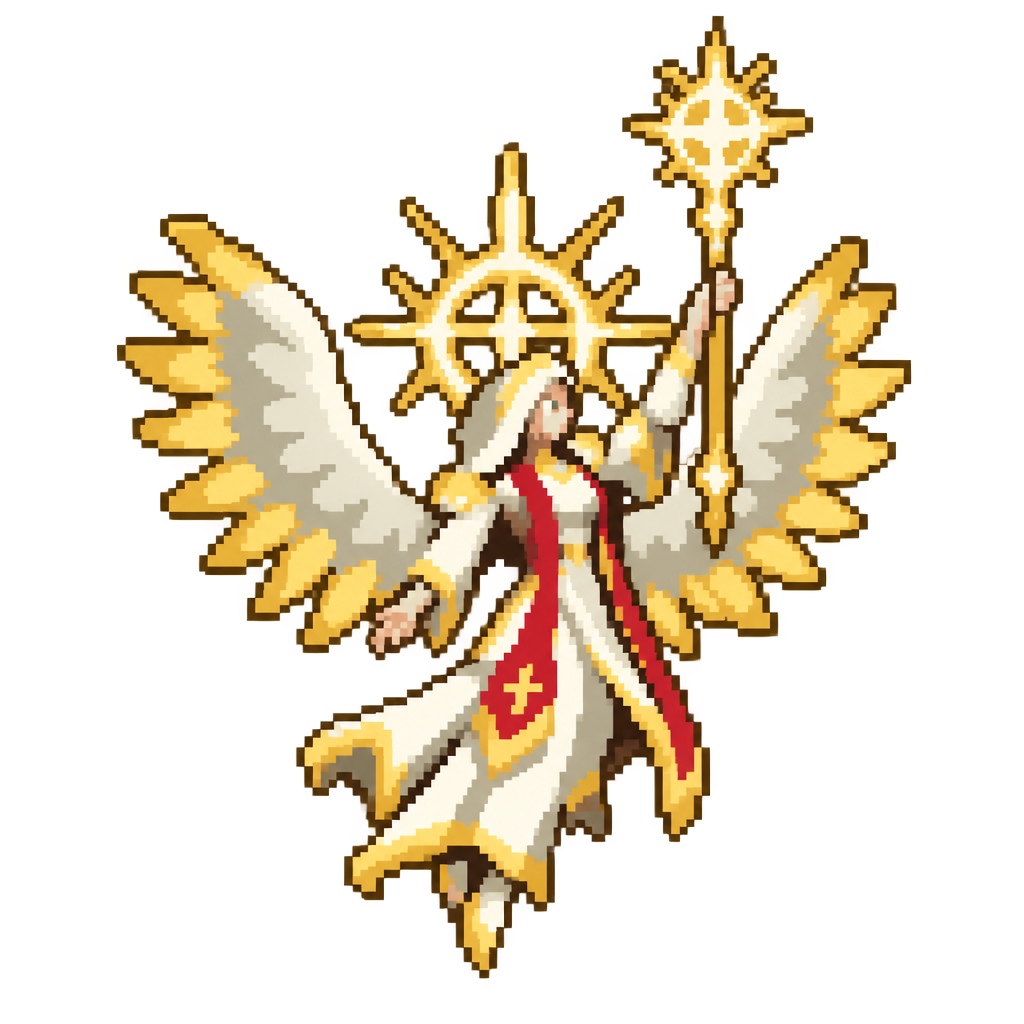
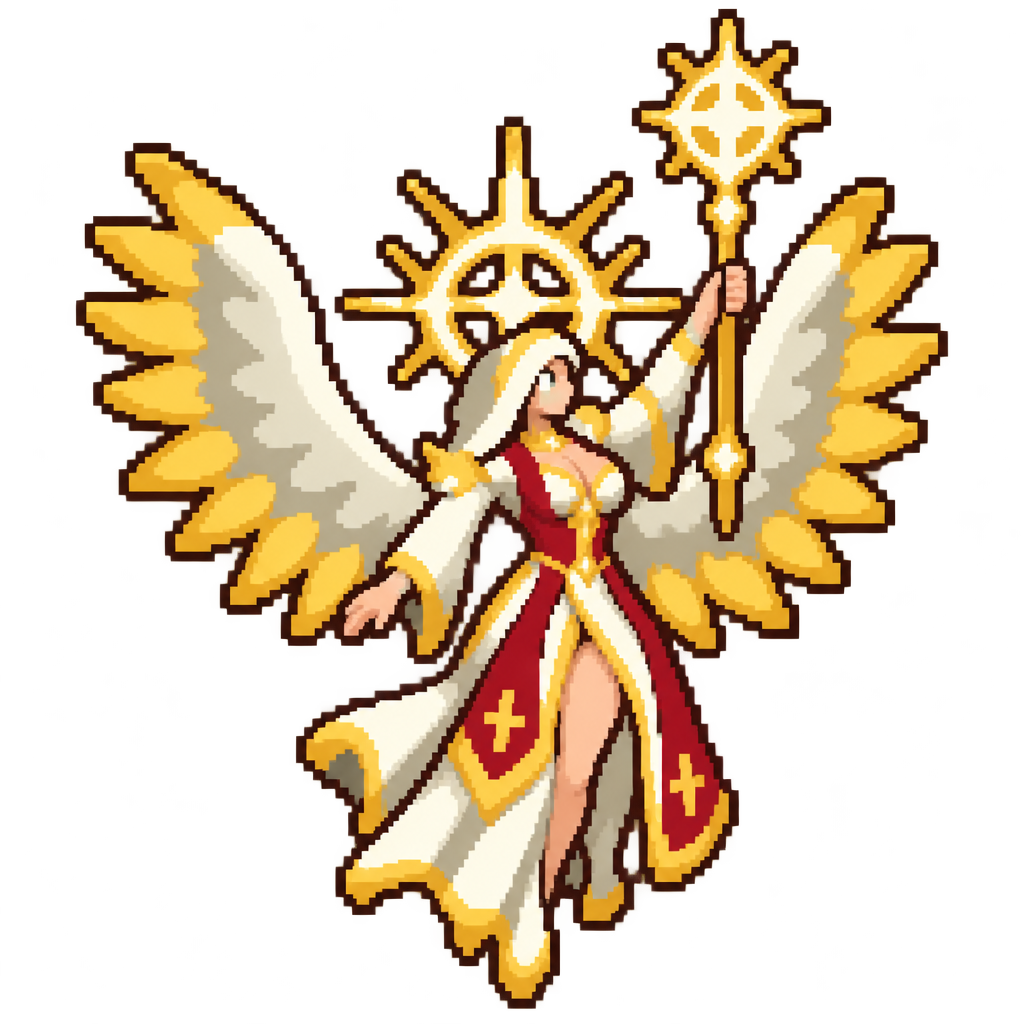
Art: curvier Wither Witch, Soulbinder and Seraphine with a walk-cycle bust bounce (draft for owner review)
Claude-Session: https://claude.ai/code/session_01FLPv2RqRe5qVsRWxUhur7z

diff --git a/tools/walk_cycle.py b/tools/walk_cycle.py
@@ -83,6 +83,11 @@ DIP = (0, 1, 0, 0)
 # Per frame (both steps): hem shift at the hem bottom as a share of a robe rig's
 # `sway` (+ = forward, the facing side): the hem swings forward on each step.
 ROBE_SWAY = (0.0, 0.5, 1.0, 0.5, 0.0, -0.5, -1.0, -0.5)
+# Per frame (both steps): the bust box's vertical offset from the body, as a share of a
+# rig's `bust` bounce px (+ = down). Secondary motion (owner request, Oct 2026: "jiggle"):
+# the bust lags the body by one pose, so it stays up while the body dips ("down") and
+# overshoots down as the body rises ("passing"), then settles; frame 0 (the still) is 0.
+BUST_BOUNCE = (0.0, -1.0, 1.0, 0.0, 0.0, -1.0, 1.0, 0.0)
 
 # Rigs: how each still is cut. Columns and rows are art px in the still (x from
 # the left, y from the top; ranges are [start, end) ). Keys:
@@ -97,6 +102,9 @@ ROBE_SWAY = (0.0, 0.5, 1.0, 0.5, 0.0, -0.5, -1.0, -0.5)
 #   lift    px the swinging foot rises at passing ("legs").
 #   sway    px the hem bottom swings at most ("robe").
 #   dip     px the body dips on the "down" pose (0 or 1; 1 for every unit so far).
+#   bust    optional (x0, x1, y0, y1, px): the box of the still holding the bust (art px,
+#           [start, end) ) and the bounce in whole px; it moves BUST_BOUNCE * px rows
+#           relative to the body each frame (rows only, so every pixel stays an approved one).
 RIGS = {
     # The pilot (ART_BIBLE "Walk cycles"): the three units with the most screen time.
     "player/necromancer": dict(mode="legs", hip=47, back=(0, 20), front=(20, 33), rigid=[(33, 46, 0, None)], spread=1, lift=1, dip=1),
@@ -127,8 +135,9 @@ RIGS = {
     "player/plague_scholar": dict(mode="legs", hip=43, back=(0, 26), front=(26, 60), rigid=[], spread=2, lift=1, dip=1),
     "player/doomsayer": dict(mode="legs", hip=47, back=(0, 17), front=(17, 32), rigid=[], spread=1, lift=1, dip=1),
     "player/barrow_warden": dict(mode="legs", hip=52, back=(0, 18), front=(18, 30), rigid=[(30, 44, 0, None)], spread=1, lift=1, dip=1),
-    "player/soulbinder": dict(mode="legs", hip=54, back=(0, 24), front=(24, 46), rigid=[], spread=1, lift=1, dip=1),
-    "player/wither_witch": dict(mode="legs", hip=42, back=(0, 20), front=(20, 26), rigid=[(26, 40, 0, None)], spread=1, lift=1, dip=1),
+    # Redesigned figures (owner request, Oct 2026): the bust box bounces 1 px (BUST_BOUNCE).
+    "player/soulbinder": dict(mode="legs", hip=54, back=(0, 24), front=(24, 44), rigid=[], spread=1, lift=1, dip=1, bust=(20, 33, 20, 26, 1)),
+    "player/wither_witch": dict(mode="legs", hip=40, back=(0, 18), front=(18, 26), rigid=[(26, 36, 0, None)], spread=1, lift=1, dip=1, bust=(14, 27, 15, 21, 1)),
     "player/grave_herald": dict(mode="legs", hip=53, back=(0, 24), front=(24, 46), rigid=[], spread=1, lift=1, dip=1),
     # Later units with long screen time: the walking summon evolutions and two March soldiers.
     "summons/death_knight": dict(mode="legs", hip=41, back=(0, 25), front=(25, 54), rigid=[], spread=2, lift=2, dip=1),
@@ -193,6 +202,9 @@ def skin_rig(skin: str, base: str) -> dict:
         rig["back"], rig["front"] = cols(rig["back"]), cols(rig["front"])
     rig["rigid"] = [(*cols((x0, x1)), y0 if y0 == 0 else y0 + dy, None if y1 is None else y1 + dy)
                     for x0, x1, y0, y1 in rig.get("rigid", [])]
+    if "bust" in rig:
+        bx0, bx1, by0, by1, bpx = rig["bust"]
+        rig["bust"] = (*cols((bx0, bx1)), by0 + dy, by1 + dy, bpx)
     rig.update(SKIN_FIX.get(skin, {}))
     return rig
 
@@ -300,9 +312,27 @@ def frames_of(key: str) -> list:
         else:
             hem = _shift_rows(parts["hem"], hip, dy, 0, ROBE_SWAY[f] * rig["sway"])
             frame = _stack([hem] + body)
+        if "bust" in rig:
+            frame = _bounce(frame, rig["bust"], dy, int(round(BUST_BOUNCE[f] * rig["bust"][4])))
         out.append(frame)
     if not np.array_equal(out[0], still):
         sys.exit(f"{key}: frame 0 differs from the still (rig error)")
+    return out
+
+
+def _bounce(frame: np.ndarray, bust: tuple, dy: int, s: int) -> np.ndarray:
+    """Moves the bust box of `frame` (the still's box `bust` lowered by the body dip `dy`)
+    `s` rows (+ = down) inside its columns. The rows it leaves keep their old pixels (the
+    edge row stretches by one), the rows it lands on are overwritten, so no new colour
+    appears. s = 0 returns the frame unchanged."""
+    if s == 0:
+        return frame
+    x0, x1, y0, y1 = bust[0], bust[1], bust[2] + dy, bust[3] + dy  # Box in this frame (art px).
+    out = frame.copy()
+    h = frame.shape[0]  # Frame height (art px).
+    src = frame[y0:y1, x0:x1]  # The bust rows as the body placed them.
+    a, b = max(0, y0 + s), min(h, y1 + s)  # Landing rows, clipped to the frame.
+    out[a:b, x0:x1] = src[a - (y0 + s):b - (y0 + s)]
     return out
 
 
